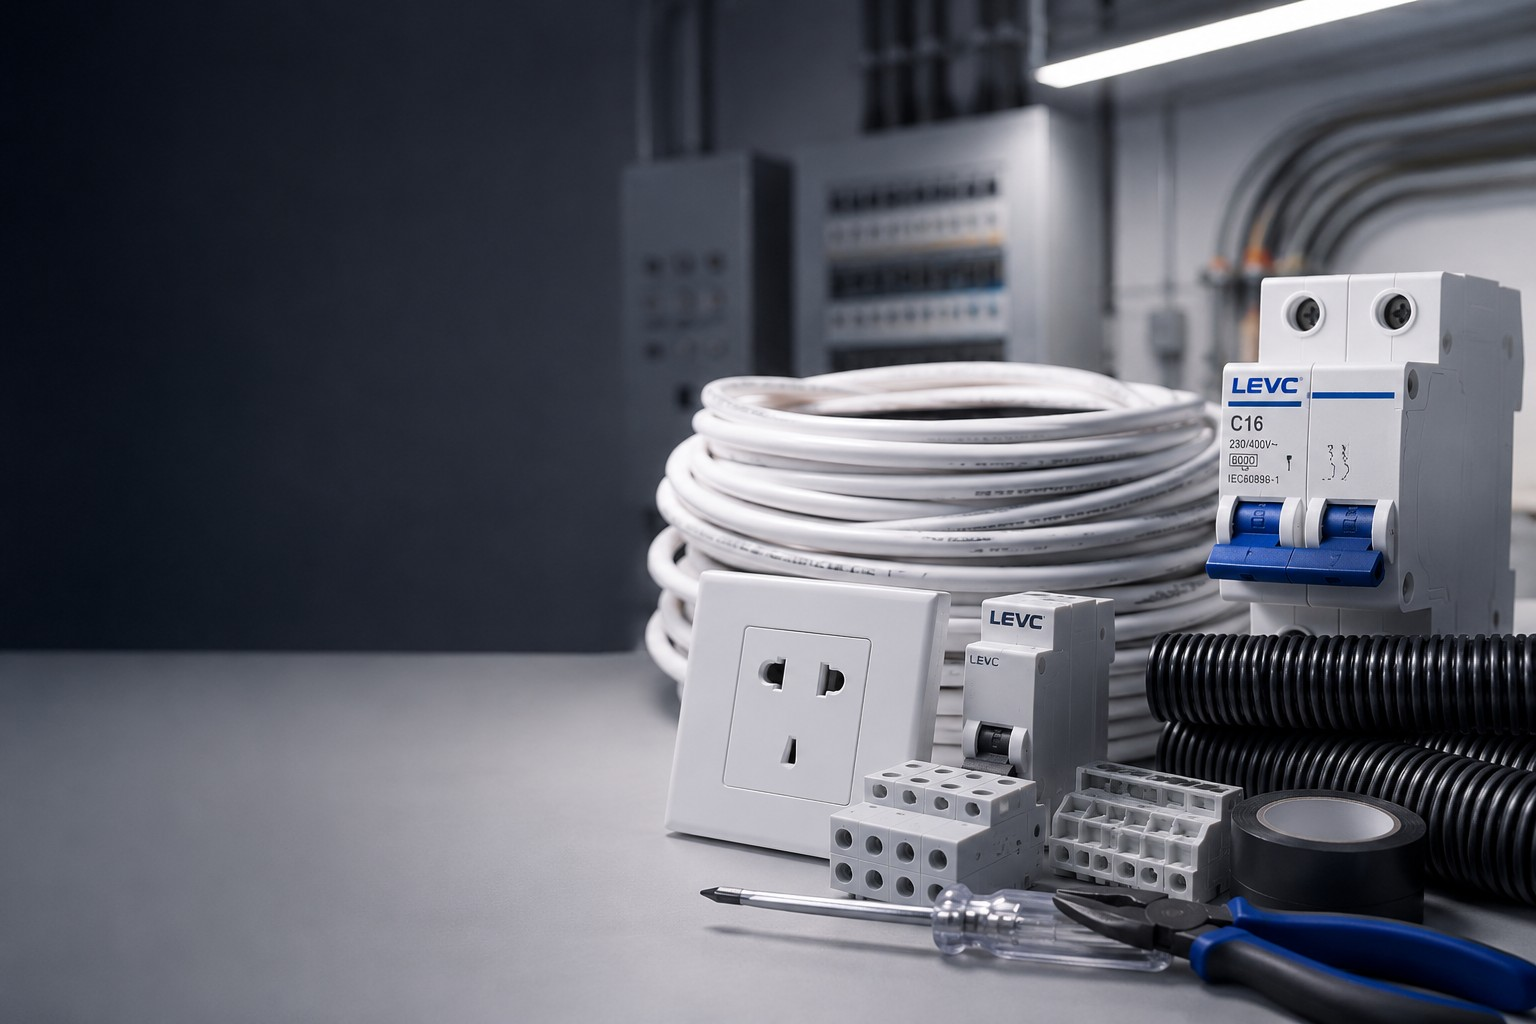
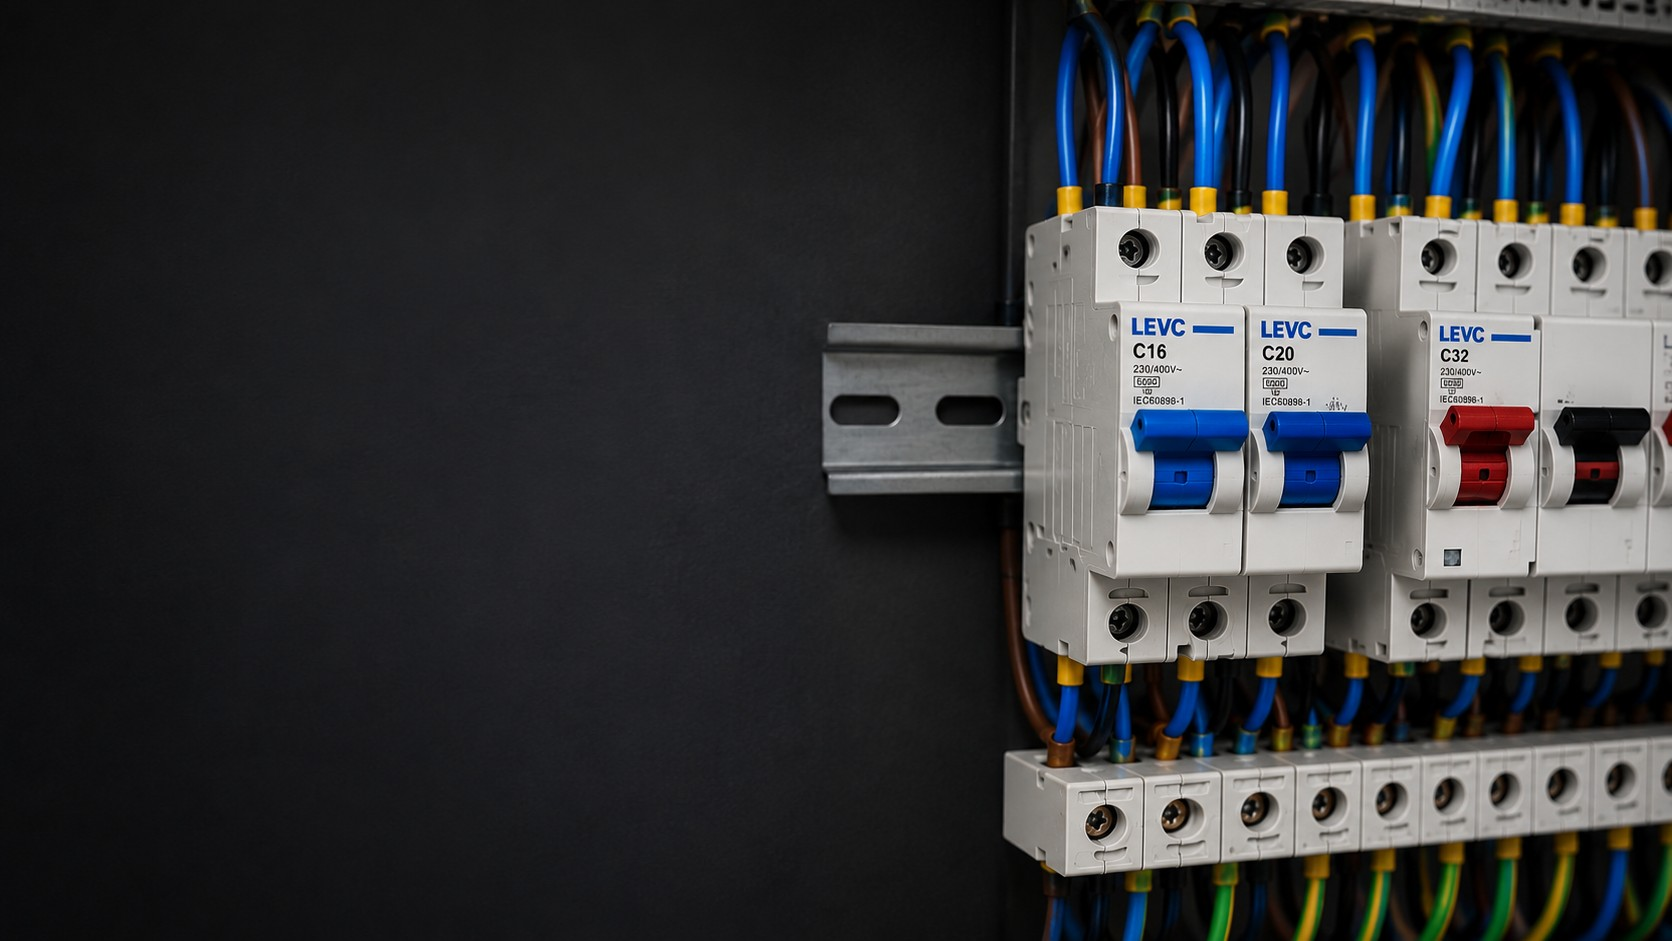
segunda imagen electricidad y overlay

diff --git a/src/components/Categorias.css b/src/components/Categorias.css
@@ -171,3 +171,35 @@
   }
 
 }
+.electricidad {
+  position: relative;
+
+  background-image:
+    url("../assets/categoria-electricidad.jpg");
+
+  background-size: cover;
+  background-position: center;
+
+  overflow: hidden;
+}
+
+.electricidad::before {
+  content: "";
+
+  position: absolute;
+  inset: 0;
+
+  background:
+    linear-gradient(
+      90deg,
+      rgba(18, 39, 120, 0.88) 0%,
+      rgba(18, 39, 120, 0.72) 35%,
+      rgba(18, 39, 120, 0.28) 60%,
+      rgba(18, 39, 120, 0) 100%
+    );
+
+  z-index: 1;
+}
+.categoria-info {
+  z-index: 5;
+}